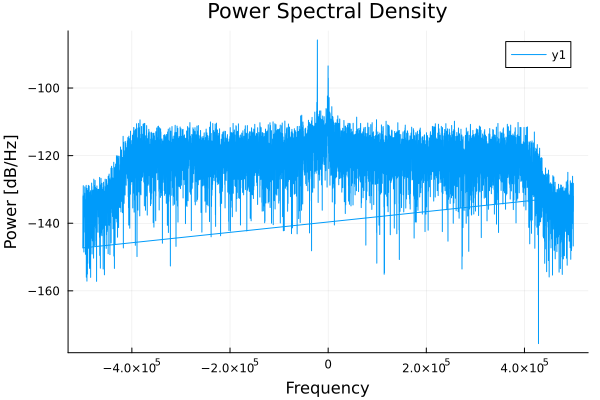
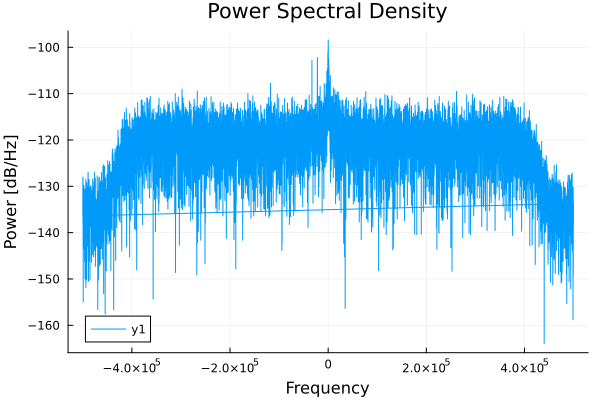
add docs

diff --git a/docs/src/Examples/receiver.md b/docs/src/Examples/receiver.md
@@ -1,0 +1,105 @@
+# Receiver
+
+This example configures the BladeRF as a receiver and captures samples on channel 0.
+There is a lot of setup, as this is a low level API.
+
+```@example Receiver
+using ..BladeRF
+using DSP
+using Plots
+
+# Initialize the device
+radioBoard = BladeRF.BladeRFDevice()
+
+
+desired_freq_Hz = round(Int64, 2.4e9)
+BladeRF.set_frequency(radioBoard, 0, desired_freq_Hz)
+
+# Get frequency to verify
+freq = BladeRF.get_frequency(radioBoard, 0)
+println("Frequency: ", freq)
+
+# Setting bandwidth
+desired_bandwidth = 5000000  # Desired bandwidth in Hz
+actual_bandwidth = BladeRF.set_bandwidth(radioBoard, 0, desired_bandwidth)
+
+# Enable module
+BladeRF.enable_module(radioBoard, 0, true)
+
+# Set sample rate
+actual_rate_Hz = BladeRF.set_sample_rate(radioBoard, 0, 1000000)
+
+# Set gain mode
+BladeRF.set_gain_mode(radioBoard, 0, BladeRF.BLADERF_GAIN_MGC)
+
+# Set gain
+BladeRF.set_gain(radioBoard, 0, 30)
+
+```
+
+Now we have configured the receiver, and it's time to setup the sampling.
+
+```@example Receiver
+sample_format = BladeRF.BLADERF_FORMAT_SC16_Q11
+
+num_samples = 4096
+
+bytes_per_sample = 4
+buffer_size_samples = 1024
+buffer_size = ceil(Int, buffer_size_samples * bytes_per_sample)
+read_cycles = ceil(Int, num_samples / (buffer_size / bytes_per_sample))
+total_bytes = Int(read_cycles * buffer_size)
+
+received_bytes = Vector{UInt8}(undef, total_bytes)
+buf = Vector{UInt8}(undef, buffer_size)
+metadata = BladeRF.init_metadata()
+timeout_ms = UInt(1000)  # Timeout in milliseconds
+
+channel = BladeRF.BladerfChannelLayout(0)
+
+num_buffers = UInt(32)
+blade_buffer_size = UInt(8192)
+num_transfers = UInt(16)
+stream_timeout = UInt(1000)
+
+BladeRF.sync_config(radioBoard, channel, sample_format, num_buffers, blade_buffer_size, num_transfers, stream_timeout)
+
+
+BladeRF.enable_module(radioBoard, 0, true)
+
+GC.@preserve buf metadata begin
+    buffer_ptr = Base.unsafe_convert(Ptr{Nothing}, pointer(buf))
+    metadata_ref = Ref(metadata)
+    metadata_ptr = Base.unsafe_convert(Ptr{BladeRF.BladerfMetadata}, metadata_ref)
+
+    # Receive samples
+    index = 1
+    for i in 1:read_cycles
+        BladeRF.sync_rx(radioBoard, buffer_ptr, UInt(buffer_size_samples), metadata_ptr, timeout_ms)
+        unsafe_copyto!(received_bytes, index, buf, 1, buffer_size)
+        global index += buffer_size
+    end
+end
+
+BladeRF.enable_module(radioBoard, 0, false)
+
+# Close the device
+BladeRF.close(radioBoard)
+
+
+complex_samples = reinterpret(Complex{Int16}, received_bytes)
+normalized_samples = Complex{Float32}.(complex_samples) ./ 2048.0
+```
+
+We have now sucsessully sampled with the radio. To verify the samples, lets plot its Power Spectral Density (PSD).
+
+```@example Receiver
+
+pgram = periodogram(normalized_samples, onesided=false, fs=actual_rate_Hz)
+
+plot(pgram.freq, pow2db.(pgram.power), title="Power Spectral Density", xlabel="Frequency", ylabel="Power [dB/Hz]")
+
+savefig("../../../plots/Receiver_PSD.svg"); nothing # hide
+```
+
+![PSD of the samples](https://github.com/ErikBuer/BladeRF.jl/blob/master/plots/Receiver_PSD.svg)

diff --git a/README.md b/README.md
@@ -10,3 +10,18 @@ Add it using ht following command.
 ```
 
 Support to the bladeRF Julia is also found in the [AbstractSDRs.jl](https://github.com/JuliaTelecom/AbstractSDRs.jl) package.
+
+## Testing the code
+
+The tests must be run with a BladeRF connected.
+
+From project root, run the following bash command.
+
+```bash
+julia --project=. -e 'using Pkg; Pkg.test()'
+```
+
+## Building docs locally
+
+To speed up docs generation locally, there is a separate make_local.jl file.
+Trun this file from project root.

diff --git a/docs/src/index.md b/docs/src/index.md
@@ -1,0 +1,5 @@
+# BladeRF.jl Documentation
+
+```@autodocs
+Modules = [BladeRF]
+```
